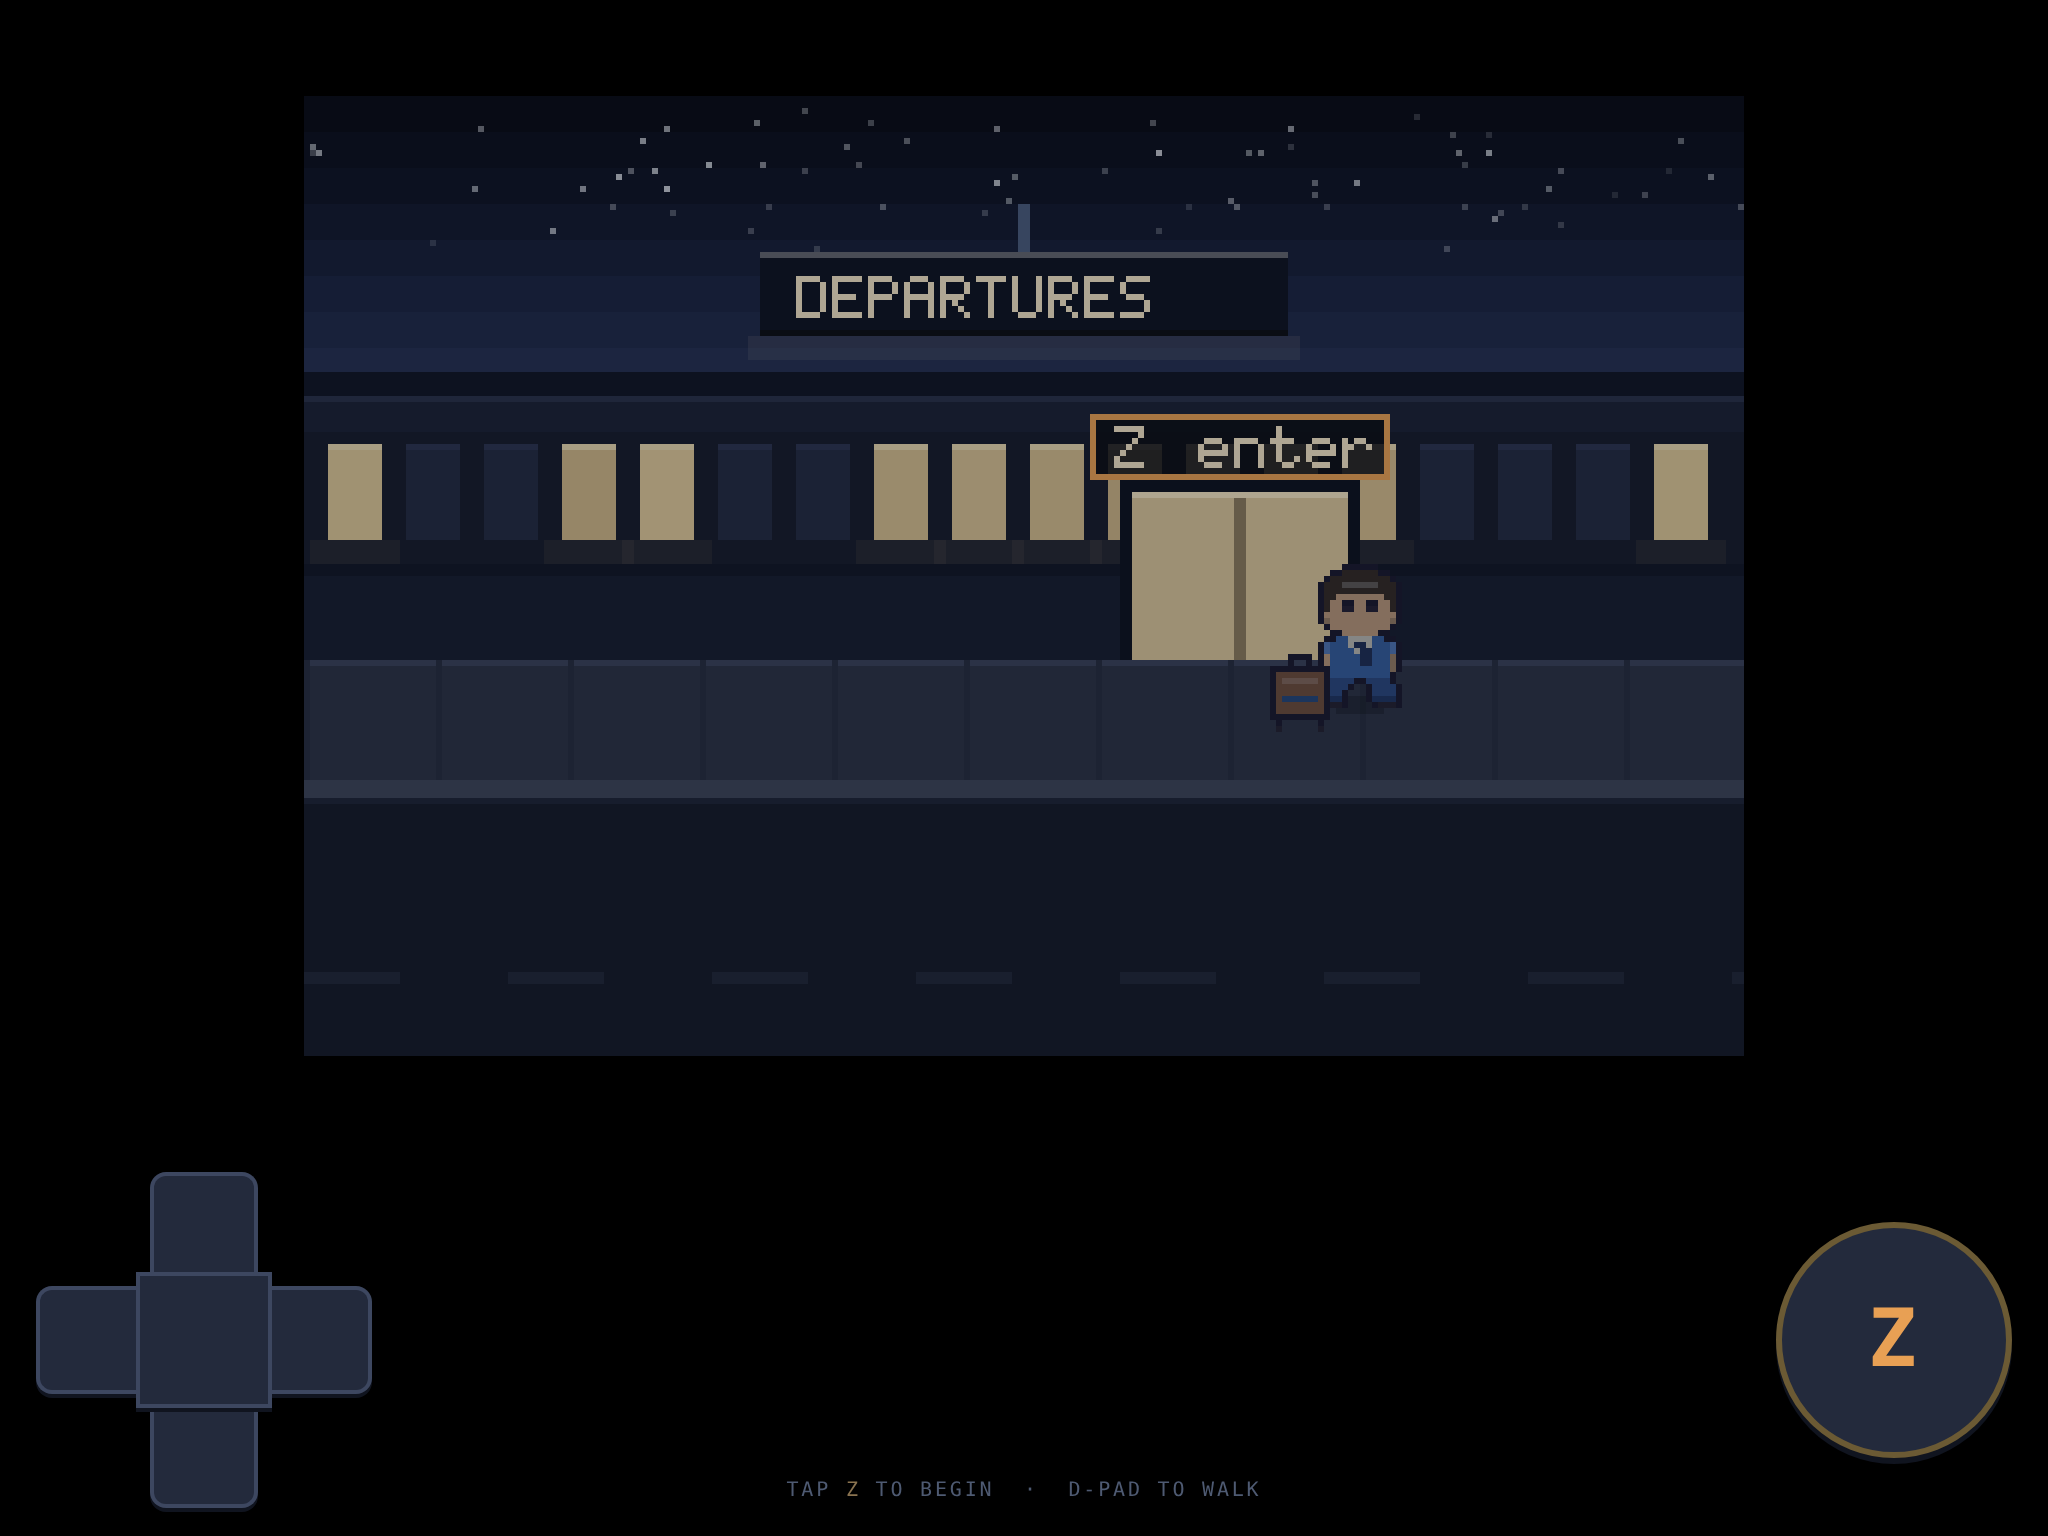
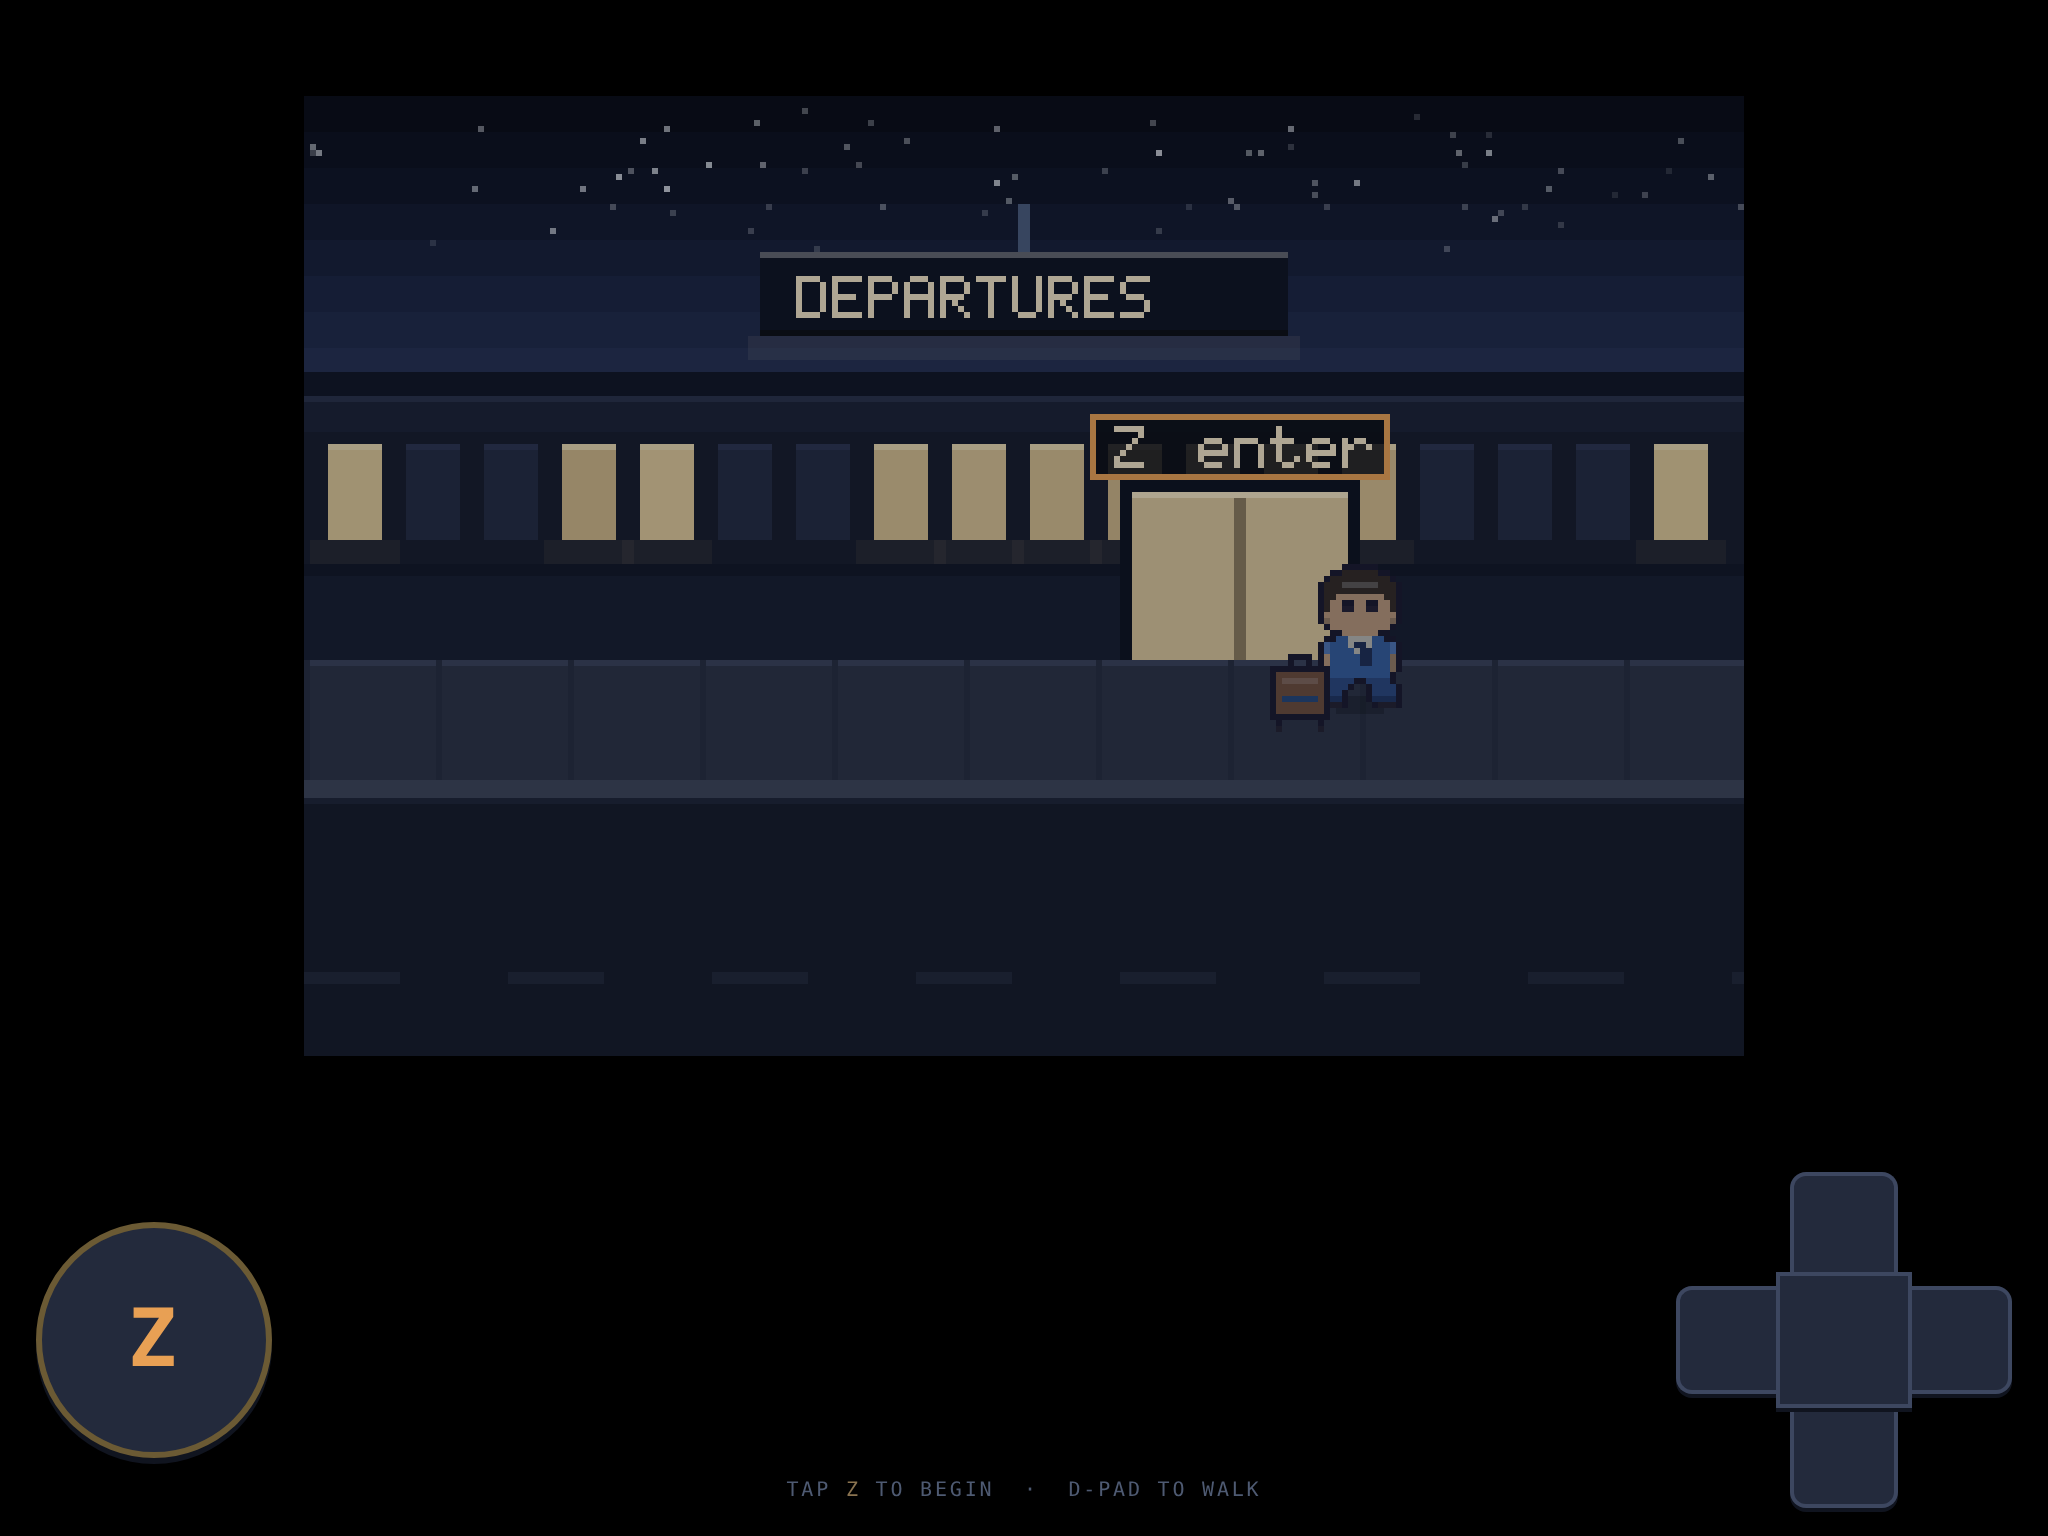
Put the d-pad on the right and the Z button on the left

Changed region(s): [[0.8125, 0.75, 1.0, 1.0], [0.0, 0.75, 0.1875, 1.0]]

diff --git a/dist/rhubarb.html b/dist/rhubarb.html
@@ -540,7 +540,9 @@
     '  padding:0 max(18px,env(safe-area-inset-left)) max(14px,env(safe-area-inset-bottom))',
     '          max(18px,env(safe-area-inset-right));',
     '  -webkit-user-select:none;user-select:none;-webkit-touch-callout:none;touch-action:none;}',
-    '#rb-touch.on{display:flex;}',
+    // D-pad on the right, button on the left. Reversing the flex direction
+    // swaps them without touching the DOM order the hit-testing reads.
+    '#rb-touch.on{display:flex;flex-direction:row-reverse;}',
     '#rb-pad{position:relative;width:var(--pad);height:var(--pad);flex:none;}',
     '#rb-pad .arm{position:absolute;background:#232a3c;border:2px solid #3d4760;',
     '  box-shadow:0 2px 0 #10141f;}',

diff --git a/src/touch.js b/src/touch.js
@@ -24,7 +24,9 @@
     '  padding:0 max(18px,env(safe-area-inset-left)) max(14px,env(safe-area-inset-bottom))',
     '          max(18px,env(safe-area-inset-right));',
     '  -webkit-user-select:none;user-select:none;-webkit-touch-callout:none;touch-action:none;}',
-    '#rb-touch.on{display:flex;}',
+    // D-pad on the right, button on the left. Reversing the flex direction
+    // swaps them without touching the DOM order the hit-testing reads.
+    '#rb-touch.on{display:flex;flex-direction:row-reverse;}',
     '#rb-pad{position:relative;width:var(--pad);height:var(--pad);flex:none;}',
     '#rb-pad .arm{position:absolute;background:#232a3c;border:2px solid #3d4760;',
     '  box-shadow:0 2px 0 #10141f;}',
